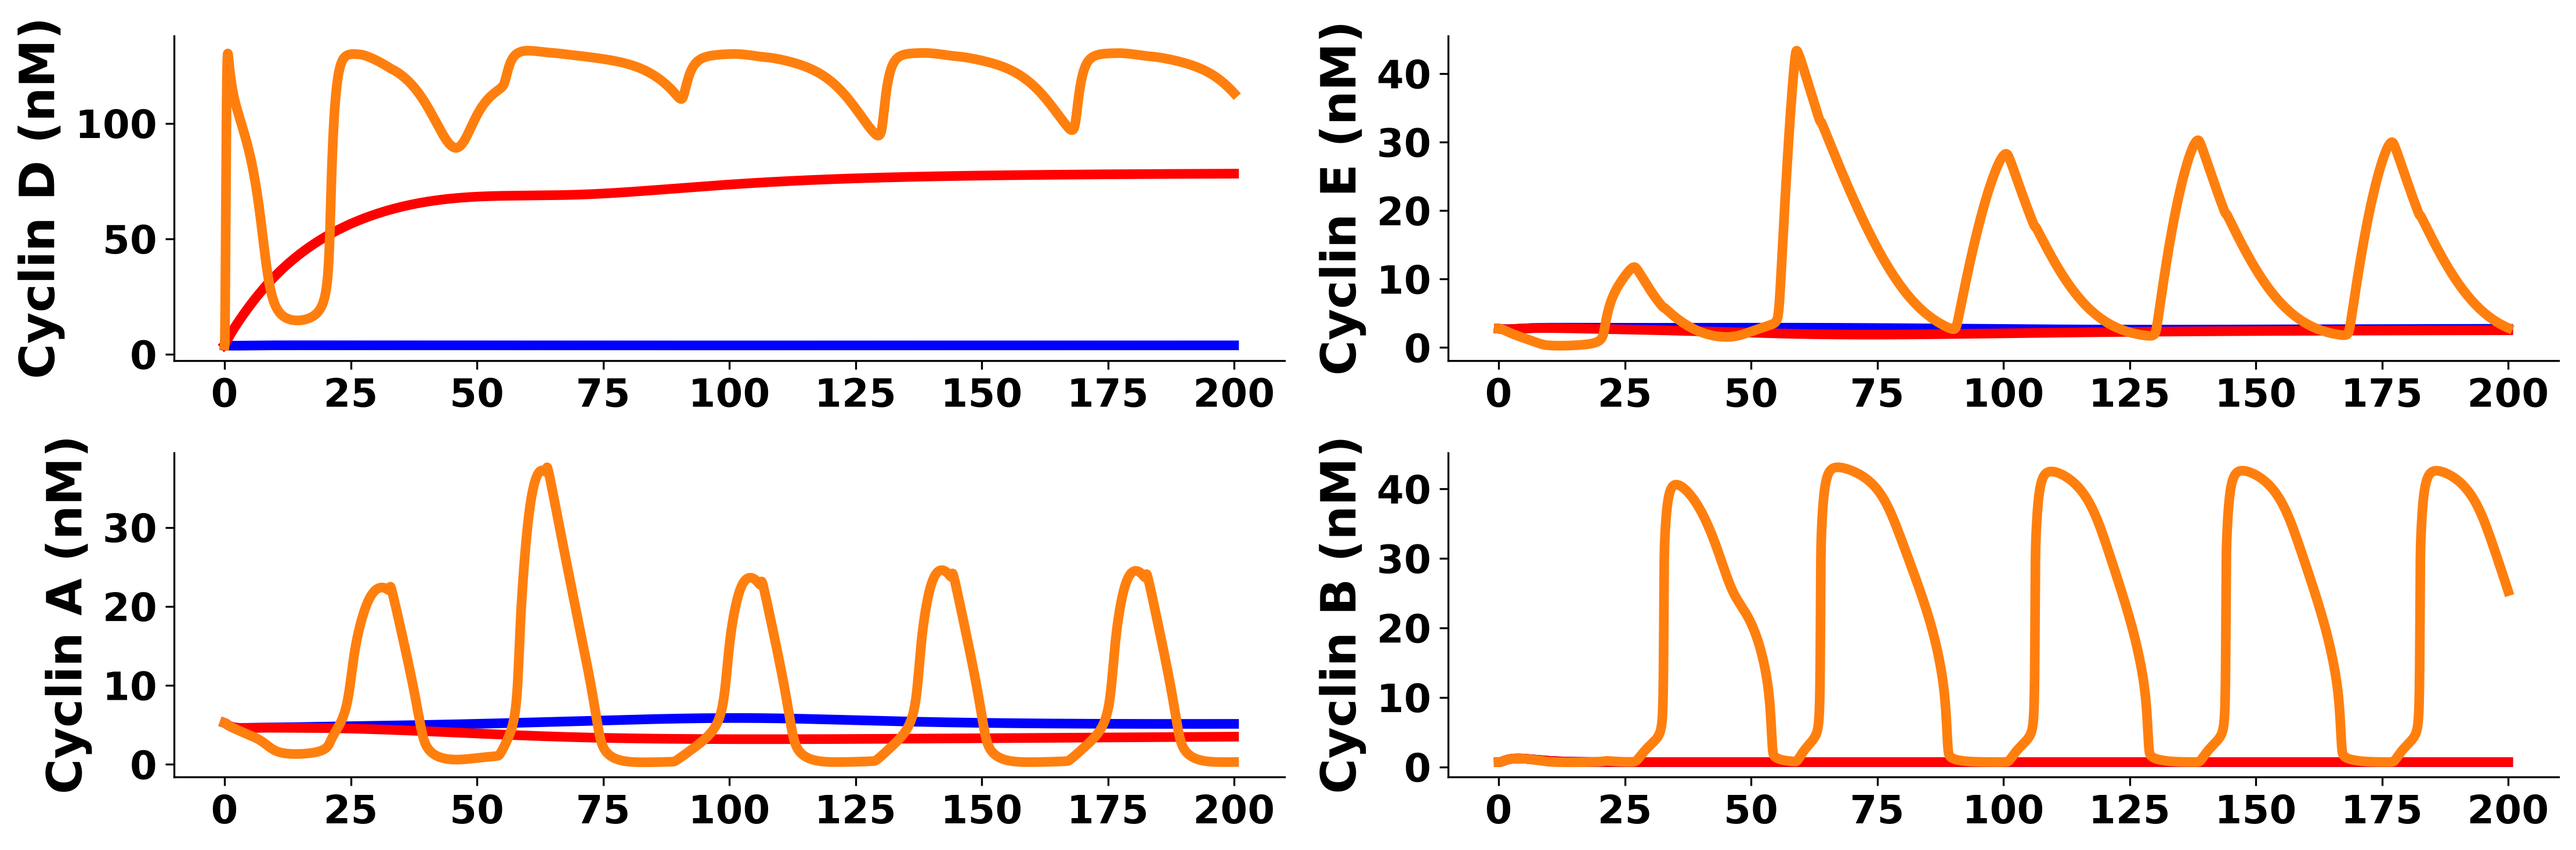
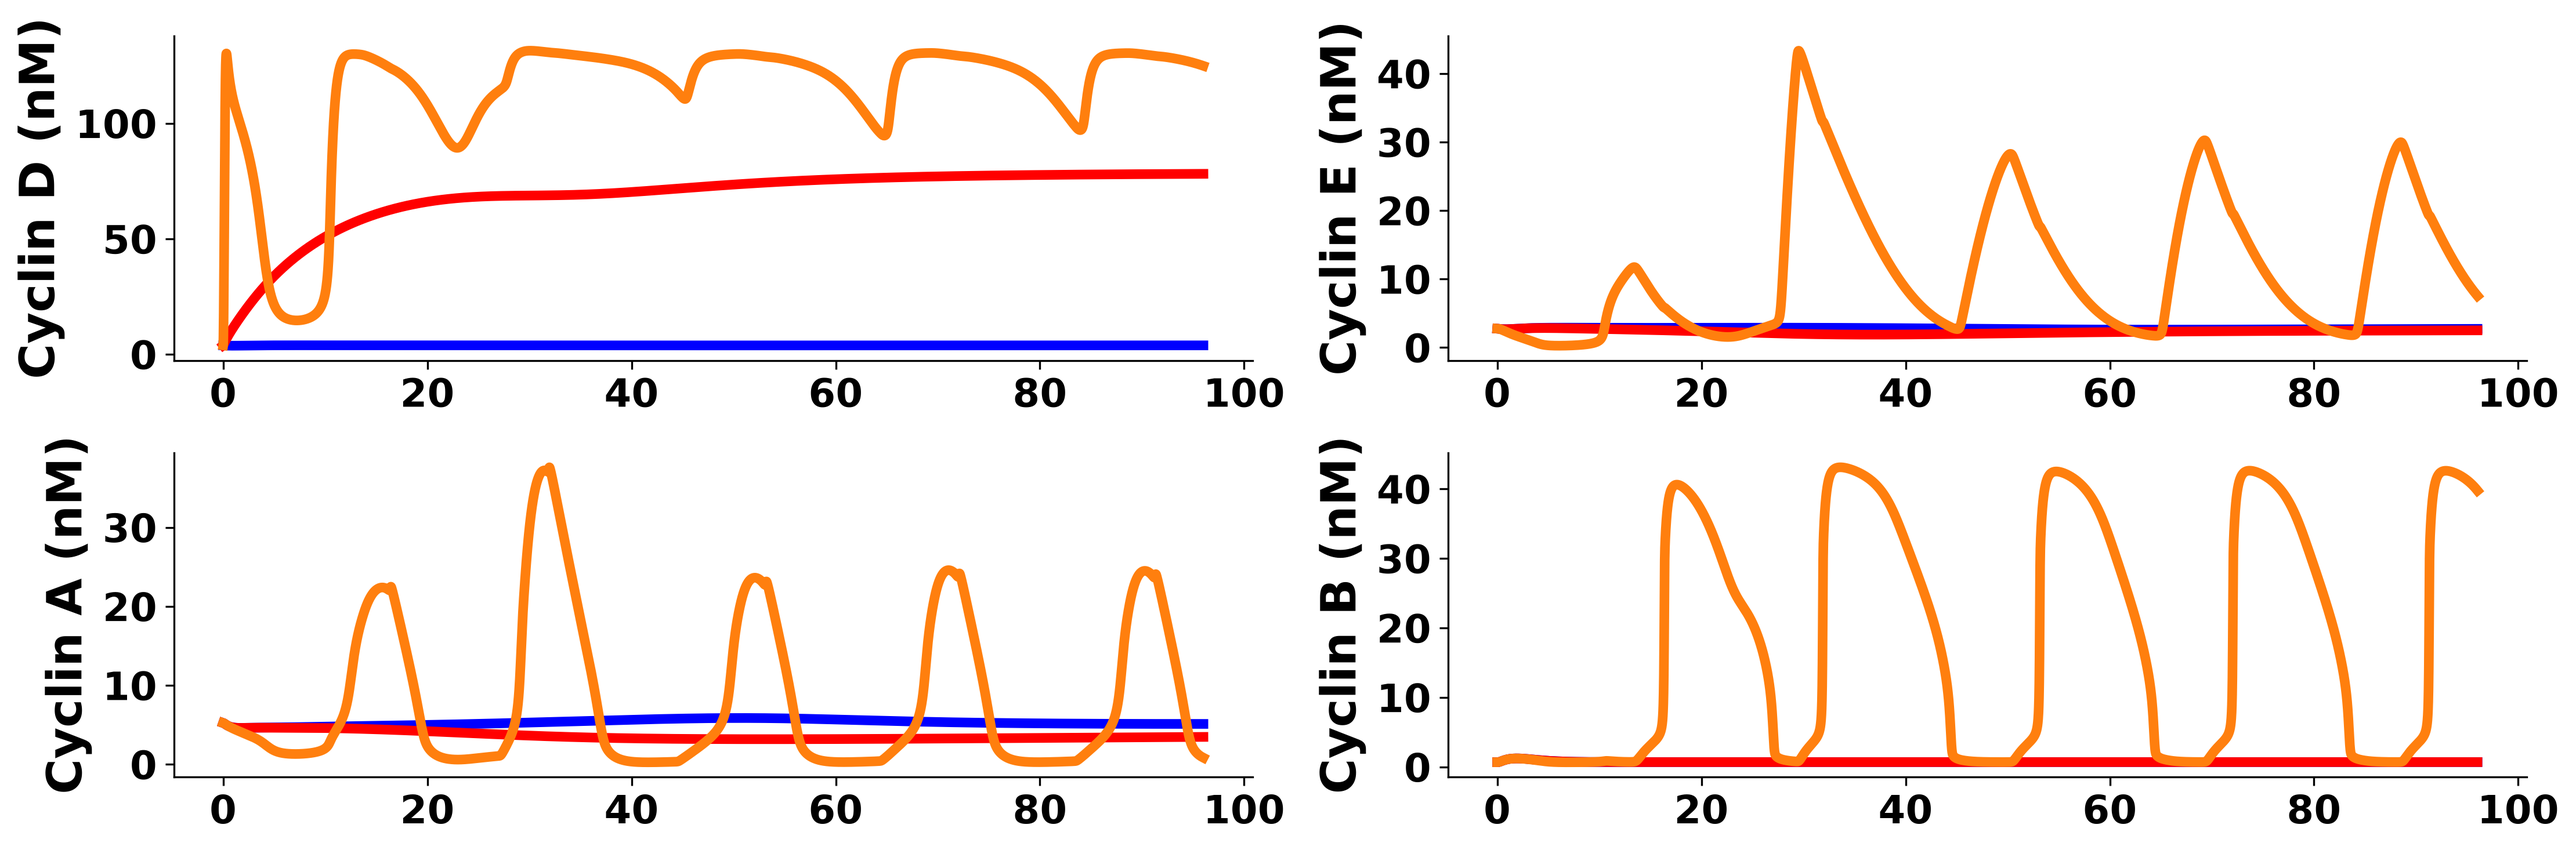
Fix cell cycle benchmark duration & plot

diff --git a/models/official/stochastic-gene-expression-v1.4.2/results/benchmarks/cell_cycle/plot.py b/models/official/stochastic-gene-expression-v1.4.2/results/benchmarks/cell_cycle/plot.py
@@ -33,14 +33,14 @@ plt.rcParams.update({
 fig, ax = plt.subplots(2,2, figsize=(15,5))
 
 # Load results
-cyclin_D_1 =  pd.read_csv("Cell_Cycle_step_1_cell_1.tsv", sep="\t", index_col=0)
-cyclin_D_10 = pd.read_csv("Cell_Cycle_step_2_cell_1.tsv", sep="\t", index_col=0)
-cyclin_D_60 = pd.read_csv("Cell_Cycle_step_3_cell_1.tsv", sep="\t", index_col=0)
+cyclin_D_1 =  pd.read_csv("Cell_Cycle_step_1_cell_1.tsv", sep="\t", index_col=1)
+cyclin_D_10 = pd.read_csv("Cell_Cycle_step_2_cell_1.tsv", sep="\t", index_col=1)
+cyclin_D_60 = pd.read_csv("Cell_Cycle_step_3_cell_1.tsv", sep="\t", index_col=1)
 
 # (1) Cyclin D plot
-ax[0,0].plot(cyclin_D_1.index / 60, cyclin_D_1['nuc_cong__CCND__CDK4and6_'], linewidth=4, color='b')
-ax[0,0].plot(cyclin_D_10.index / 60, cyclin_D_10['nuc_cong__CCND__CDK4and6_'], linewidth=4, color='r')
-ax[0,0].plot(cyclin_D_60.index / 60, cyclin_D_60['nuc_cong__CCND__CDK4and6_'], linewidth=4, color='tab:orange')
+ax[0,0].plot(cyclin_D_1.index / 3600, cyclin_D_1['nuc_cong__CCND__CDK4and6_'], linewidth=4, color='b')
+ax[0,0].plot(cyclin_D_10.index / 3600, cyclin_D_10['nuc_cong__CCND__CDK4and6_'], linewidth=4, color='r')
+ax[0,0].plot(cyclin_D_60.index / 3600, cyclin_D_60['nuc_cong__CCND__CDK4and6_'], linewidth=4, color='tab:orange')
 
 ax[0,0].set_yticklabels(ax[0,0].get_yticks().astype(int), weight='bold', fontsize=16)
 ax[0,0].spines[['right', 'top']].set_visible(False)
@@ -48,9 +48,9 @@ ax[0,0].set_xticklabels(ax[0,0].get_xticks().astype(int), weight='bold', fontsiz
 ax[0,0].set_ylabel('Cyclin D (nM)', weight='bold', fontsize=20)
 
 # (2) Cyclin E plot
-ax[0,1].plot(cyclin_D_1.index / 60, cyclin_D_1['nuc_cong__CCNE__CDK2_'], linewidth=4, color='b')
-ax[0,1].plot(cyclin_D_10.index / 60, cyclin_D_10['nuc_cong__CCNE__CDK2_'], linewidth=4, color='r')
-ax[0,1].plot(cyclin_D_60.index / 60, cyclin_D_60['nuc_cong__CCNE__CDK2_'], linewidth=4, color='tab:orange')
+ax[0,1].plot(cyclin_D_1.index / 3600, cyclin_D_1['nuc_cong__CCNE__CDK2_'], linewidth=4, color='b')
+ax[0,1].plot(cyclin_D_10.index / 3600, cyclin_D_10['nuc_cong__CCNE__CDK2_'], linewidth=4, color='r')
+ax[0,1].plot(cyclin_D_60.index / 3600, cyclin_D_60['nuc_cong__CCNE__CDK2_'], linewidth=4, color='tab:orange')
 
 ax[0,1].set_yticklabels(ax[0,1].get_yticks().astype(int), weight='bold', fontsize=16)
 ax[0,1].set_xticklabels(ax[0,1].get_xticks().astype(int), weight='bold', fontsize=16)
@@ -58,9 +58,9 @@ ax[0,1].spines[['right', 'top']].set_visible(False)
 ax[0,1].set_ylabel('Cyclin E (nM)', weight='bold', fontsize=20)
 
 # (3) Cyclin A plot
-ax[1,0].plot(cyclin_D_1.index / 60, cyclin_D_1['nuc_prot__CCNA__CDK2_'], linewidth=4, color='b')
-ax[1,0].plot(cyclin_D_10.index / 60, cyclin_D_10['nuc_prot__CCNA__CDK2_'], linewidth=4, color='r')
-ax[1,0].plot(cyclin_D_60.index / 60, cyclin_D_60['nuc_prot__CCNA__CDK2_'], linewidth=4, color='tab:orange')
+ax[1,0].plot(cyclin_D_1.index / 3600, cyclin_D_1['nuc_prot__CCNA__CDK2_'], linewidth=4, color='b')
+ax[1,0].plot(cyclin_D_10.index / 3600, cyclin_D_10['nuc_prot__CCNA__CDK2_'], linewidth=4, color='r')
+ax[1,0].plot(cyclin_D_60.index / 3600, cyclin_D_60['nuc_prot__CCNA__CDK2_'], linewidth=4, color='tab:orange')
 
 ax[1,0].set_yticklabels(ax[1,0].get_yticks().astype(int), weight='bold', fontsize=16)
 ax[1,0].set_xticklabels(ax[1,0].get_xticks().astype(int), weight='bold', fontsize=16)
@@ -68,9 +68,9 @@ ax[1,0].spines[['right', 'top']].set_visible(False)
 ax[1,0].set_ylabel('Cyclin A (nM)', weight='bold', fontsize=20)
 
 # (4) Cyclin B plot
-ax[1,1].plot(cyclin_D_1.index / 60, cyclin_D_1['nuc_cong__CCNB__CDK1_'], linewidth=4, color='b')
-ax[1,1].plot(cyclin_D_10.index / 60, cyclin_D_10['nuc_cong__CCNB__CDK1_'], linewidth=4, color='r')
-ax[1,1].plot(cyclin_D_60.index / 60, cyclin_D_60['nuc_cong__CCNB__CDK1_'], linewidth=4, color='tab:orange')
+ax[1,1].plot(cyclin_D_1.index / 3600, cyclin_D_1['nuc_cong__CCNB__CDK1_'], linewidth=4, color='b')
+ax[1,1].plot(cyclin_D_10.index / 3600, cyclin_D_10['nuc_cong__CCNB__CDK1_'], linewidth=4, color='r')
+ax[1,1].plot(cyclin_D_60.index / 3600, cyclin_D_60['nuc_cong__CCNB__CDK1_'], linewidth=4, color='tab:orange')
 
 ax[1,1].set_yticklabels(ax[1,1].get_yticks().astype(int), weight='bold', fontsize=16)
 ax[1,1].set_xticklabels(ax[1,1].get_xticks().astype(int), weight='bold', fontsize=16)

diff --git a/src/launcher.py b/src/launcher.py
@@ -4,5 +4,5 @@
 from broker.run import run_experiment
 
 if __name__ == "__main__":
-    run_experiment("official/benchmarks/survival_signaling.yml", "DEBUG")
+    run_experiment("official/benchmarks/cell_cycle.yml", "DEBUG")
 
